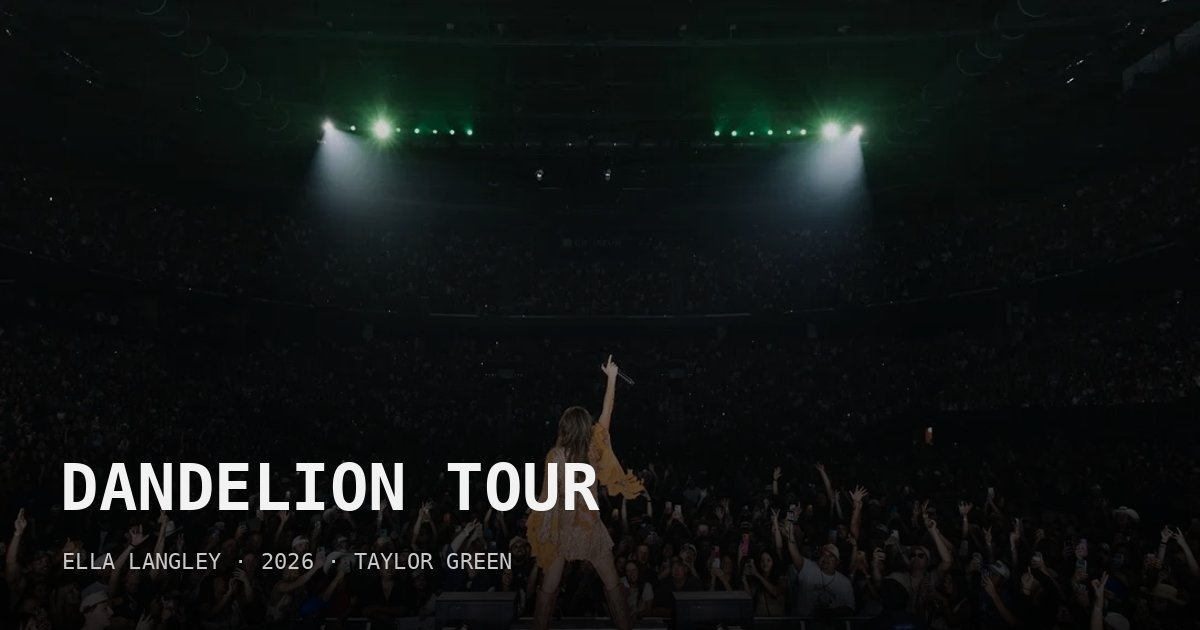
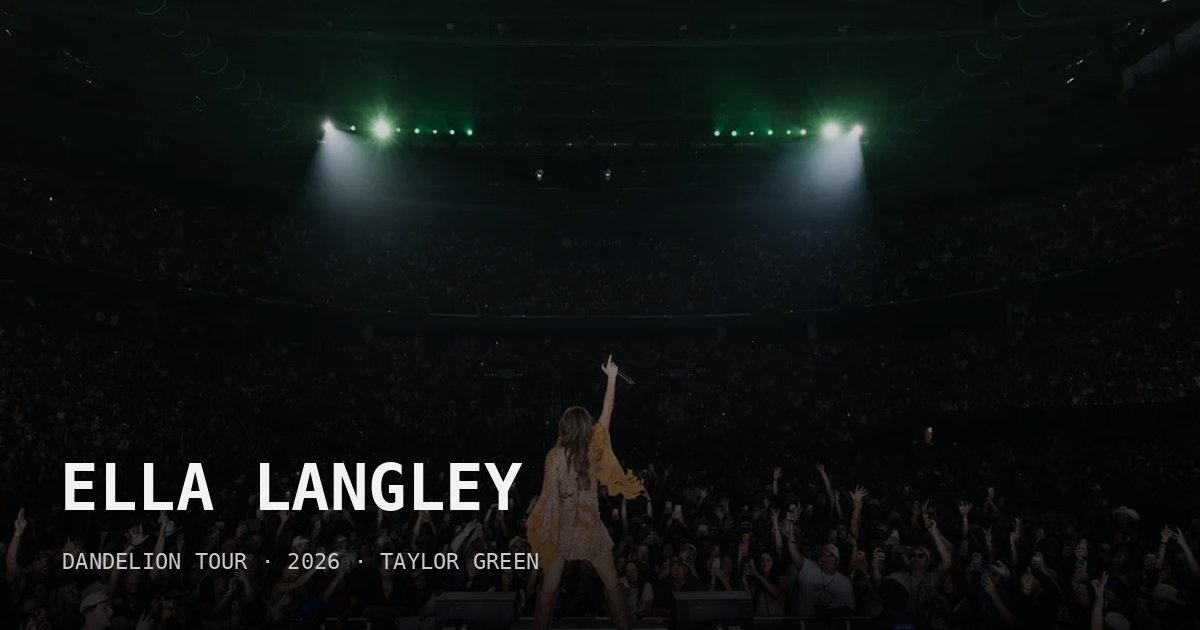
Toolkit

Changed region(s): [[0.2467, 0.7238, 0.4933, 0.8143], [0.0617, 0.7238, 0.2158, 0.8143], [0.0308, 0.8746, 0.4625, 0.9048]]

diff --git a/about.html b/about.html
@@ -23,6 +23,29 @@
 .bio-wrap .bio{grid-column:6/13;margin:0}
 @media (max-width:800px){.bio-fig{grid-column:1/-1;position:static;margin:24px 0 40px}.bio-wrap .bio{grid-column:1/-1}}
 @media (prefers-reduced-motion:reduce){.bio-frame img{transition:none}}
+/* stack: tools listed like a dev's stack file */
+.stack{grid-column:1/-1;border:1px solid var(--rule);background:#050505}
+@media (min-width:900px){.stack{grid-column:5/13}}
+.stack-bar{display:flex;justify-content:space-between;gap:16px;padding:10px 16px;border-bottom:1px solid var(--rule);background:#0d0d0d}
+.stack-bar b{color:var(--fg);font-weight:500}
+.stack-cmd{margin:0;padding:20px 16px 4px;font-size:var(--t-s);color:var(--dim)}
+.stack-cmd .ps{color:var(--go)}
+.stack-cmd .cur{display:inline-block;width:.6em;height:1.1em;margin-left:4px;vertical-align:-.2em;background:var(--go);animation:blink 1.1s steps(1) infinite}
+@keyframes blink{50%{opacity:0}}
+.stack-grid{display:grid;grid-template-columns:1fr;gap:0 var(--gutter);padding:8px 16px 20px}
+@media (min-width:700px){.stack-grid{grid-template-columns:1fr 1fr}}
+.stack-grp{margin:20px 0 0}
+.stack-grp h3{margin:0 0 6px;font-size:var(--t-xs);letter-spacing:.2em;font-weight:500;color:var(--dim);text-transform:none}
+.stack-grp h3::before{content:"// ";color:#555}
+.stack-grp ul{list-style:none;margin:0;padding:0}
+.stack-grp li{display:flex;align-items:baseline;gap:10px;padding:9px 6px;margin:0 -6px;border-top:1px solid #161616;font-size:var(--t-m);transition:background .15s,color .15s}
+.stack-grp li::before{content:"";flex:none;width:6px;height:6px;border-radius:50%;background:var(--go);box-shadow:0 0 8px rgba(61,255,92,.55);align-self:center}
+.stack-grp li span{margin-left:auto;font-size:var(--t-xs);letter-spacing:.14em;text-transform:uppercase;color:var(--dim);text-align:right}
+.stack-grp li:hover{background:var(--sel);color:#000}
+.stack-grp li:hover span{color:#000}
+.stack-grp li:hover::before{background:#000;box-shadow:none}
+.stack-foot{margin:0;padding:12px 16px;border-top:1px solid var(--rule);display:flex;justify-content:space-between;gap:16px}
+.stack-foot .ok{color:var(--go)}
 </style>
 </head>
 <body>
@@ -60,8 +83,25 @@
     </ul>
   </div>
 </section>
-<section data-cue="3.0" data-cue-name="Contact">
-  <div class="opener"><span class="opener-label">3.0 — Contact</span><h2 class="opener-title">Contact</h2></div>
+<section data-cue="3.0" data-cue-name="Toolkit">
+  <div class="opener"><span class="opener-label">3.0 — Toolkit</span><h2 class="opener-title">Toolkit</h2></div>
+  <div class="grid sec">
+    <div class="stack">
+      <div class="stack-bar label"><span>~/taylor-green</span><b>toolkit.lock</b></div>
+      <p class="stack-cmd"><span class="ps">$</span> taylor --toolkit<span class="cur" aria-hidden="true"></span></p>
+      <div class="stack-grid">
+        <div class="stack-grp"><h3>consoles</h3><ul><li>grandMA3<span>Lighting control</span></li><li>grandMA2<span>Lighting control</span></li></ul></div>
+        <div class="stack-grp"><h3>media_servers</h3><ul><li>disguise (d3)<span>Media server</span></li><li>Resolume<span>Media server</span></li></ul></div>
+        <div class="stack-grp"><h3>playback</h3><ul><li>QLab<span>Show control + playback</span></li></ul></div>
+        <div class="stack-grp"><h3>previs + cad</h3><ul><li>Vectorworks<span>Drafting + plots</span></li><li>Depence<span>Previs</span></li></ul></div>
+      </div>
+      <p class="stack-foot label"><span>7 packages</span><span class="ok">● all systems go</span></p>
+    </div>
+  </div>
+</section>
+
+<section data-cue="4.0" data-cue-name="Contact">
+  <div class="opener"><span class="opener-label">4.0 — Contact</span><h2 class="opener-title">Contact</h2></div>
   <div class="grid sec">
     <p class="prose" style="margin:0"><a class="link-big" href="contact.html">Get in touch →</a></p>
   </div>

diff --git a/css/home.css b/css/home.css
@@ -63,7 +63,7 @@ body.home main{margin-top:calc(-1 * var(--hdr-h,56px))}
 .ma-row:not(.ma-head):hover>span,.ma-row:not(.ma-head):focus-visible>span{background:#161616;color:var(--fg)}
 .ma-row:hover .ma-th img,.ma-row:focus-visible .ma-th img{filter:none}
 .ma-off>span{color:#3a3a3a!important;background:#0a0a0a!important}
-@media (max-width:640px){.ma-row{grid-template-columns:44px minmax(0,1fr) 72px}.ma-row>span:nth-child(3),.ma-row>span:nth-child(4){display:none}}
+@media (max-width:640px){.ma{margin:0;padding-inline:var(--margin);overflow-x:auto;-webkit-overflow-scrolling:touch;overscroll-behavior-x:contain;scrollbar-width:thin;scrollbar-color:var(--rule) transparent}.ma-row{min-width:640px;grid-template-columns:44px 220px 72px 200px 104px}}
 
 /* ---------- 3.0 work list ---------- */
 .cues{padding:0 0 clamp(48px,10vh,120px)}

diff --git a/css/work.css b/css/work.css
@@ -24,7 +24,7 @@
 /* credits: a spec table under the year / role line */
 .credits{grid-column:1/-1;margin:40px 0 0;display:grid;grid-template-columns:1fr;border-top:1px solid var(--rule)}
 .credits>div{display:grid;grid-template-columns:minmax(0,220px) minmax(0,1fr);gap:16px;padding:12px 0;border-bottom:1px solid var(--rule)}
-.credits dt{color:var(--dim);padding-top:3px}
+.credits dt{color:#a6a6a6;font-size:13px;padding-top:2px}
 .credits dd{margin:0;font-size:var(--t-s);line-height:1.5}
 @media (min-width:900px){.credits{grid-column:5/13}}
 @media (max-width:560px){.credits>div{grid-template-columns:1fr;gap:4px}}

diff --git a/work/evanescence-australia-2025.html b/work/evanescence-australia-2025.html
@@ -21,8 +21,8 @@
   <span class="label wh-credit">Photo: Alex Kirchner, Jordan Munns, William Buck, Tom Grut</span>
   <div class="wh-copy">
     <span class="label wh-kicker">2025</span>
-    <h1 class="wh-title">Australia 2025 (opening for Metallica)</h1>
-    <p class="wh-sub">Evanescence</p>
+    <h1 class="wh-title">Evanescence</h1>
+    <p class="wh-sub">Australia 2025 (opening for Metallica)</p>
   </div>
 </section>
 <section data-cue="2.0" data-cue-name="Credits" class="work-credits">

diff --git a/work/chris-brown-x-tycoon-festival.html b/work/chris-brown-x-tycoon-festival.html
@@ -21,8 +21,8 @@
   <span class="label wh-credit">Photo: Taylor Green</span>
   <div class="wh-copy">
     <span class="label wh-kicker">2024</span>
-    <h1 class="wh-title">x Tycoon Festival</h1>
-    <p class="wh-sub">Chris Brown</p>
+    <h1 class="wh-title">Chris Brown</h1>
+    <p class="wh-sub">x Tycoon Festival</p>
   </div>
 </section>
 <section data-cue="2.0" data-cue-name="Credits" class="work-credits">

diff --git a/work/ella-langley-dandelion-tour.html b/work/ella-langley-dandelion-tour.html
@@ -21,8 +21,8 @@
   <span class="label wh-credit">Photo: Caylee Robillard</span>
   <div class="wh-copy">
     <span class="label wh-kicker">2026</span>
-    <h1 class="wh-title">Dandelion Tour</h1>
-    <p class="wh-sub">Ella Langley</p>
+    <h1 class="wh-title">Ella Langley</h1>
+    <p class="wh-sub">Dandelion Tour</p>
   </div>
 </section>
 <section data-cue="2.0" data-cue-name="Credits" class="work-credits">

diff --git a/work/jhene-aiko-the-magic-hour.html b/work/jhene-aiko-the-magic-hour.html
@@ -21,8 +21,8 @@
   <span class="label wh-credit">Photo: Renee Rodriguez</span>
   <div class="wh-copy">
     <span class="label wh-kicker">2024</span>
-    <h1 class="wh-title">The Magic Hour</h1>
-    <p class="wh-sub">Jhené Aiko</p>
+    <h1 class="wh-title">Jhené Aiko</h1>
+    <p class="wh-sub">The Magic Hour</p>
   </div>
 </section>
 <section data-cue="2.0" data-cue-name="Credits" class="work-credits">

diff --git a/work/maverick-city-good-news.html b/work/maverick-city-good-news.html
@@ -21,8 +21,8 @@
   <span class="label wh-credit">Photo: Tres Cox, Evan McGrew</span>
   <div class="wh-copy">
     <span class="label wh-kicker">2024</span>
-    <h1 class="wh-title">Good News</h1>
-    <p class="wh-sub">Maverick City</p>
+    <h1 class="wh-title">Maverick City</h1>
+    <p class="wh-sub">Good News</p>
   </div>
 </section>
 <section data-cue="2.0" data-cue-name="Credits" class="work-credits">

diff --git a/work/evanescence-2026-world-tour.html b/work/evanescence-2026-world-tour.html
@@ -21,8 +21,8 @@
   <span class="label wh-credit">Photo: Evan Woodrum</span>
   <div class="wh-copy">
     <span class="label wh-kicker">2026</span>
-    <h1 class="wh-title">2026 World Tour</h1>
-    <p class="wh-sub">Evanescence</p>
+    <h1 class="wh-title">Evanescence</h1>
+    <p class="wh-sub">2026 World Tour</p>
   </div>
 </section>
 <section data-cue="2.0" data-cue-name="Credits" class="work-credits">
